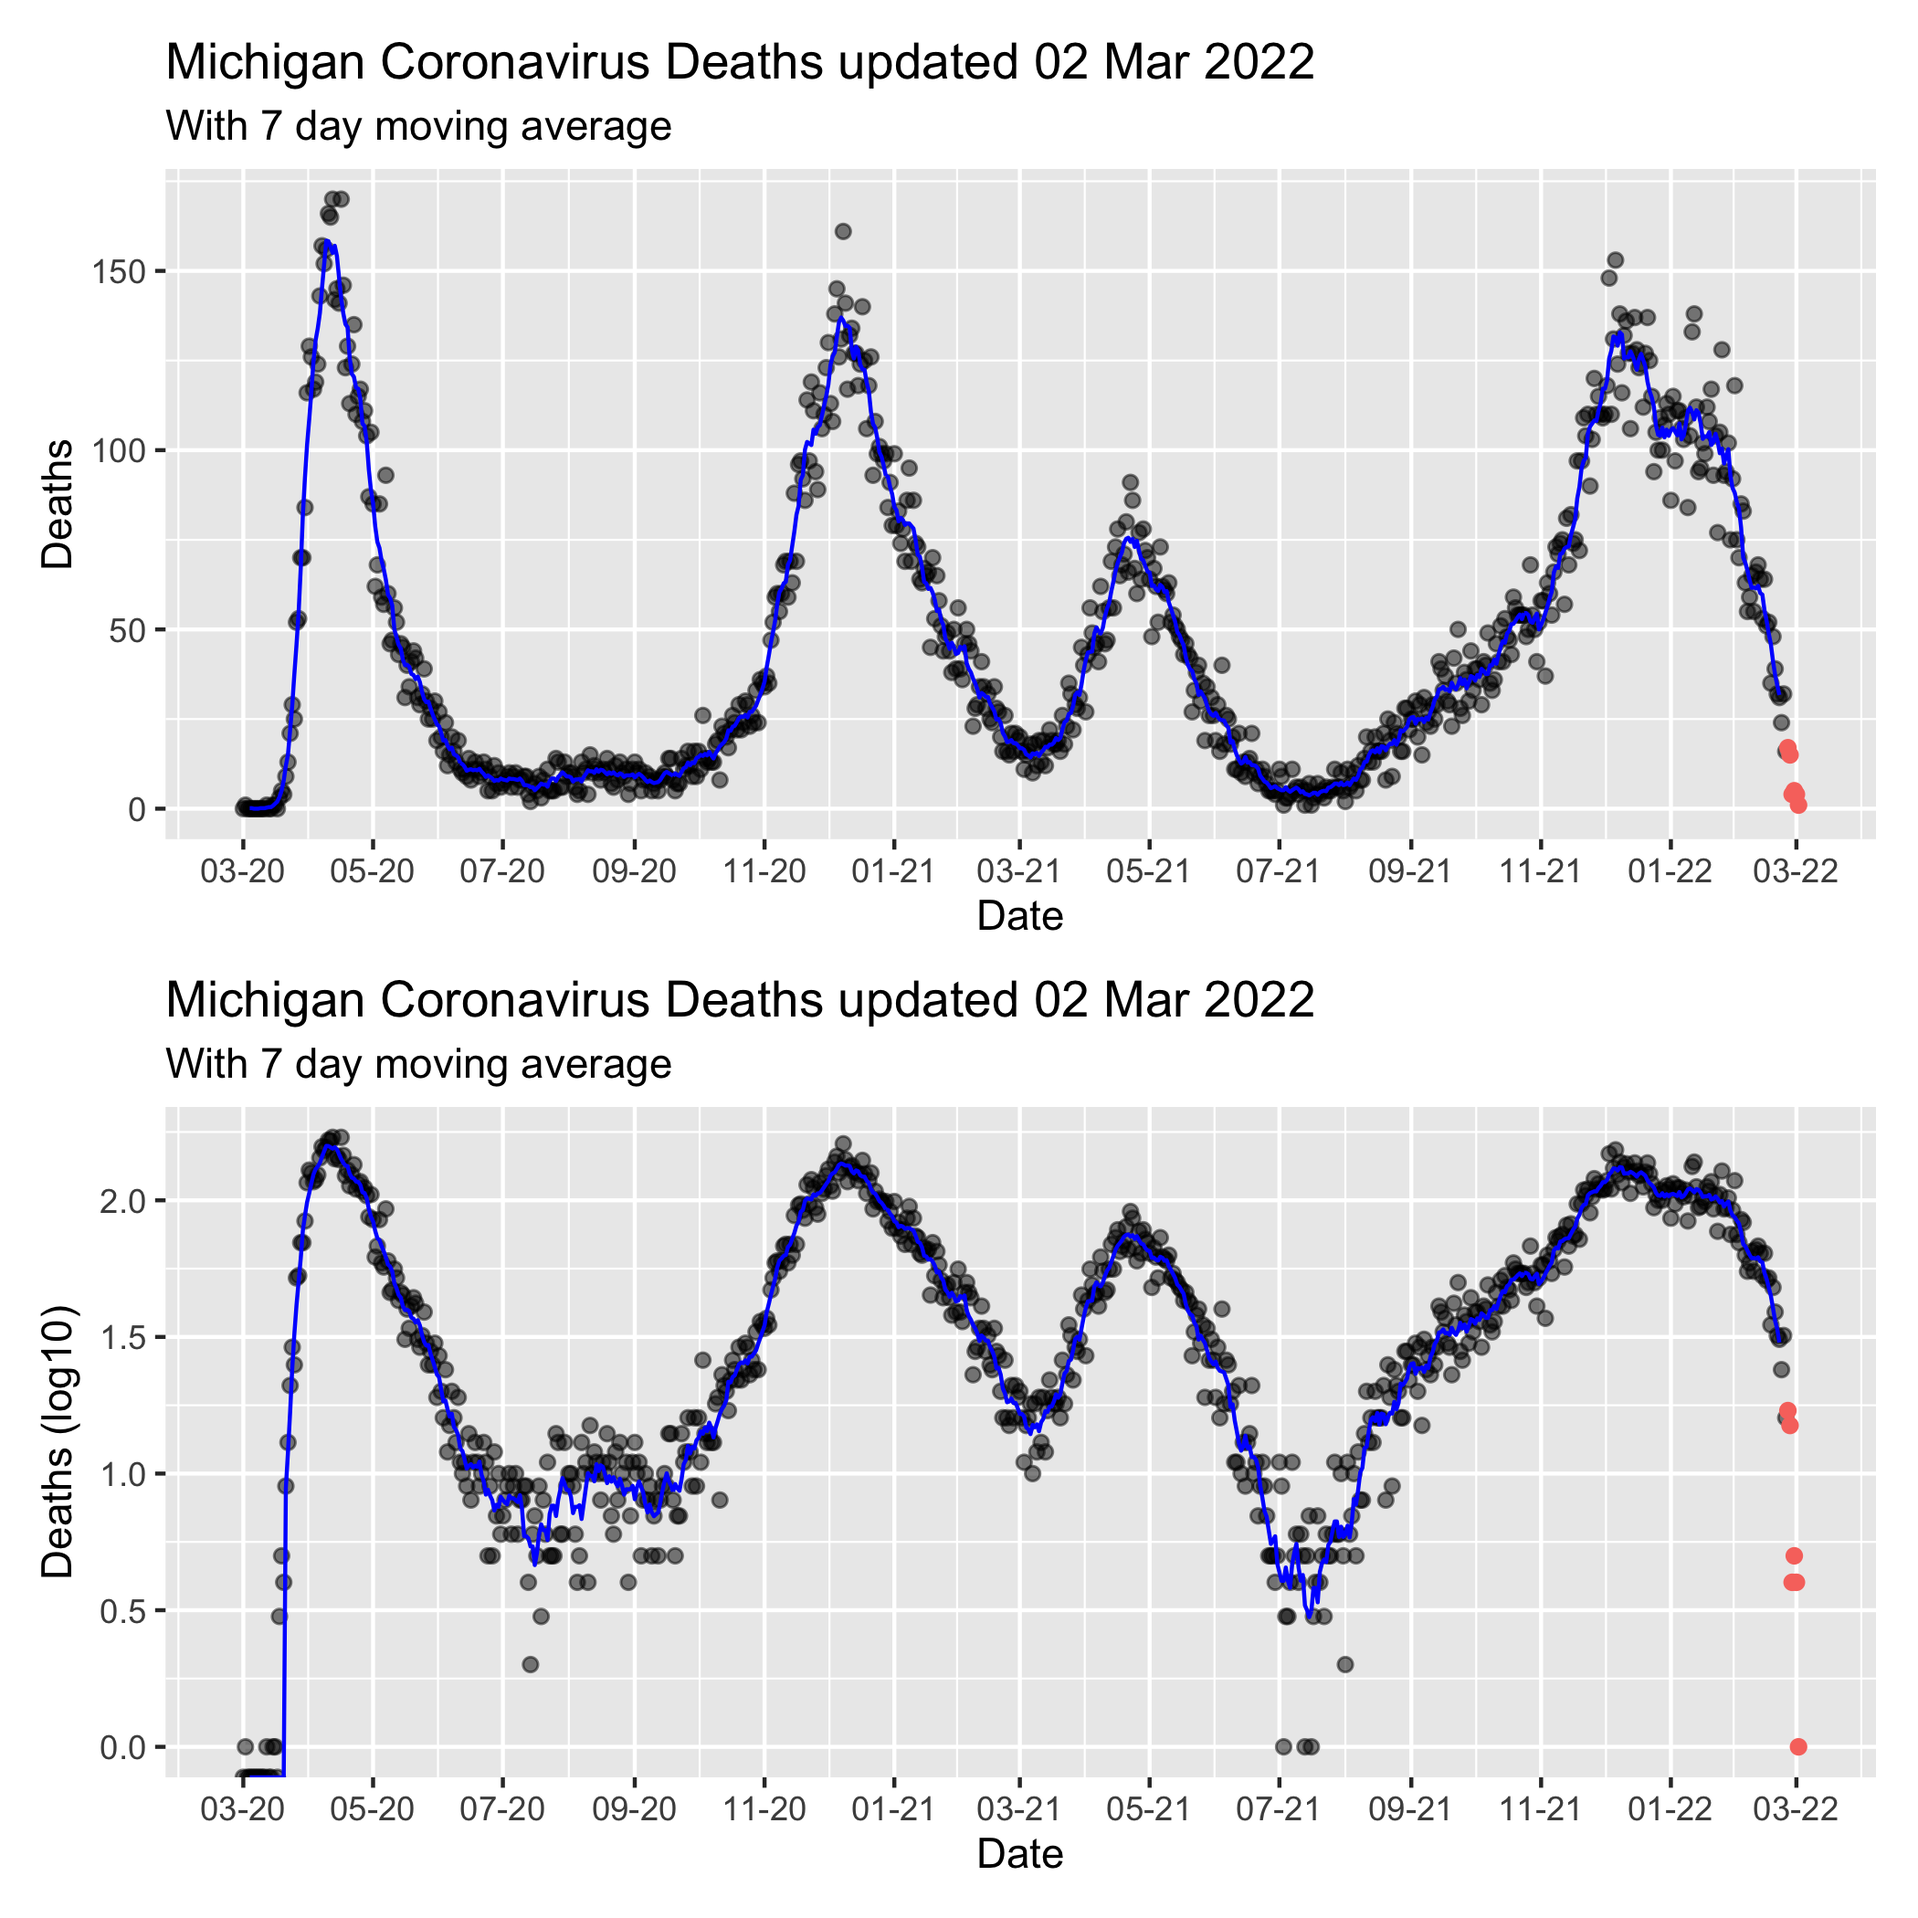
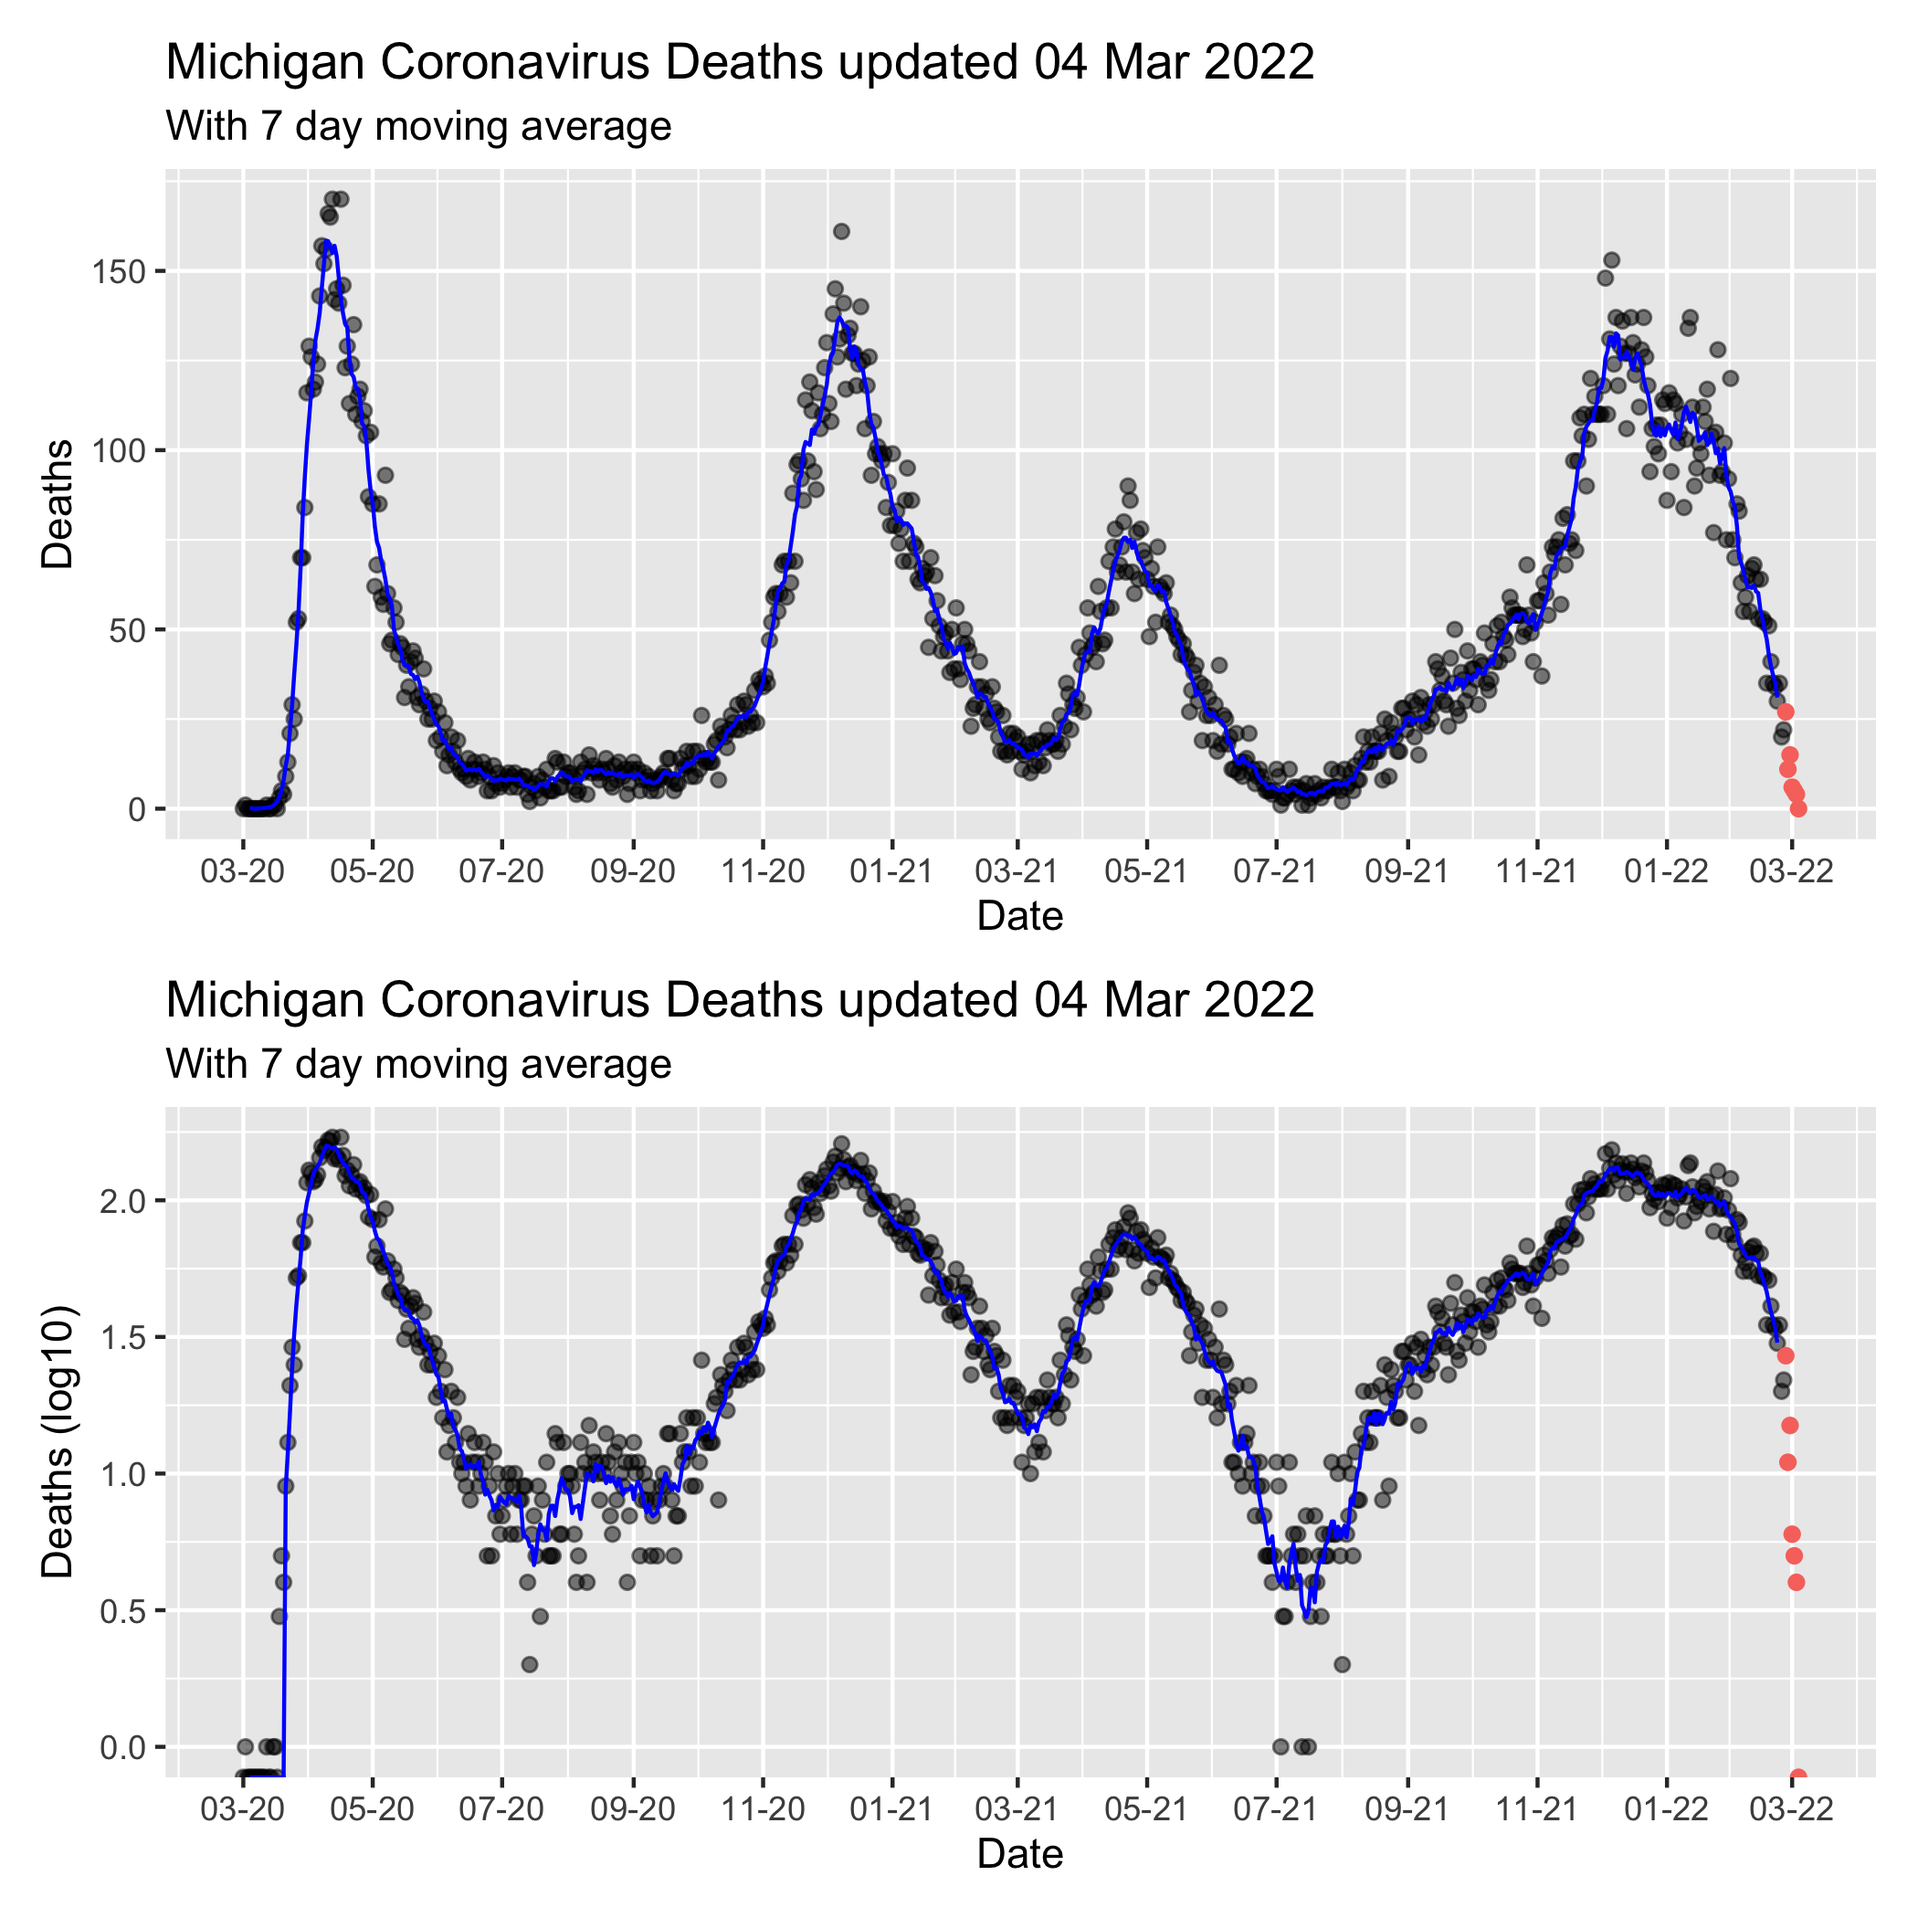
Mar-04 2022 23:10 update

diff --git a/MiCorona.md b/MiCorona.md
@@ -1,7 +1,7 @@
 Michigan COVID Data
 ================
 Adam D. DenHaan
-Mar 03, 2022
+Mar 04, 2022
 
 Get link for data:
 
@@ -49,11 +49,11 @@ mi_data.head()
     ## 4  Alcona 2020-03-05   Confirmed    0.0     0.0               0.0   
     ## 
     ##    Deaths.Cumulative                       Updated  
-    ## 0                0.0 2022-03-02 14:18:03.727500032  
-    ## 1                0.0 2022-03-02 14:18:03.727500032  
-    ## 2                0.0 2022-03-02 14:18:03.727500032  
-    ## 3                0.0 2022-03-02 14:18:03.727500032  
-    ## 4                0.0 2022-03-02 14:18:03.727500032
+    ## 0                0.0 2022-03-04 13:15:13.086100224  
+    ## 1                0.0 2022-03-04 13:15:13.086100224  
+    ## 2                0.0 2022-03-04 13:15:13.086100224  
+    ## 3                0.0 2022-03-04 13:15:13.086100224  
+    ## 4                0.0 2022-03-04 13:15:13.086100224
 
 ``` python
 max_date = max(mi_data["Updated"])
@@ -135,5 +135,5 @@ viz_function(mi_cases_by_day_exclusive, mi_cases_by_day_last4, Date, Deaths, ver
 
 ![](MiCorona_files/figure-gfm/viz2-1.png)<!-- -->
 
-Note that the last 6 days of data have been colored red on the graph, as
+Note that the last 7 days of data have been colored red on the graph, as
 they frequently change as more information becomes available.
